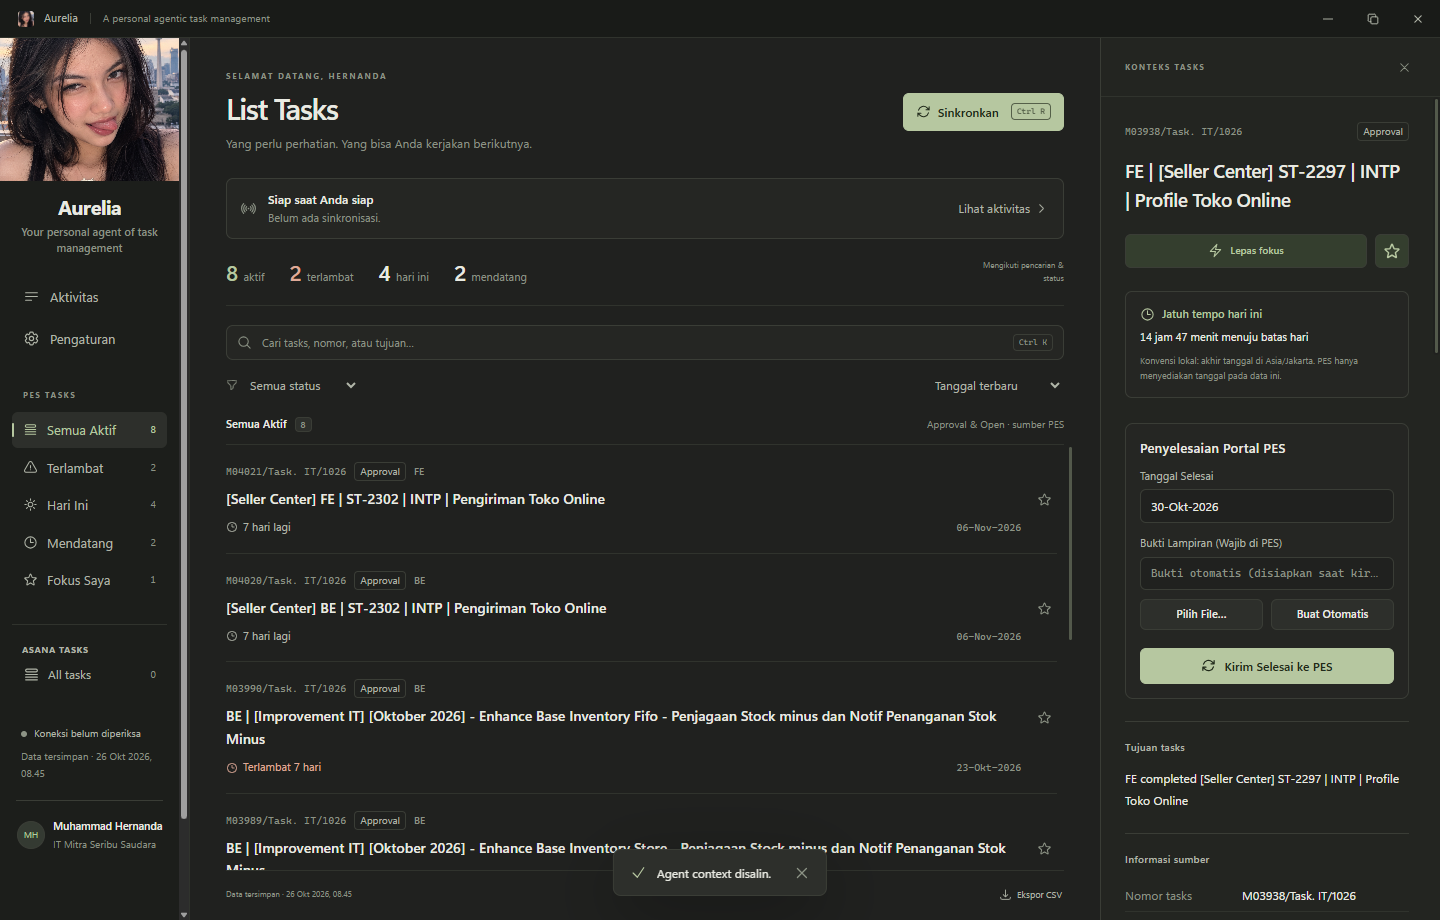
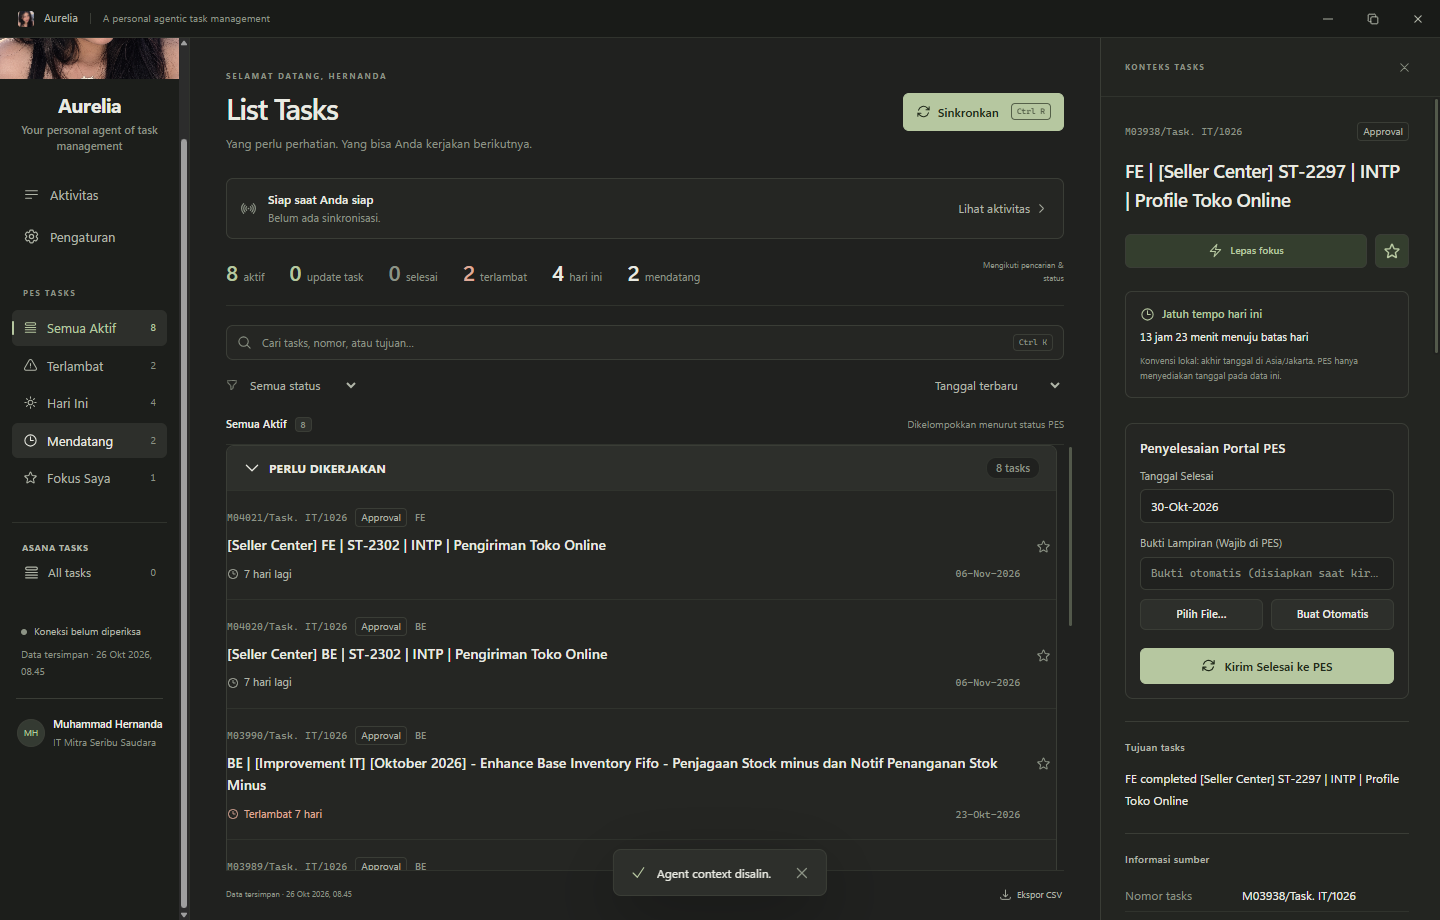
feat: separate Update Task section and collapsible Completed section in PES view

diff --git a/desktop/src/renderer/App.tsx b/desktop/src/renderer/App.tsx
@@ -195,7 +195,28 @@ export default function App() {
   const decorated = useMemo(() => tasks.map(task => ({ task, deadline: deadlineInfo(task.Duedate, now, tz) })), [tasks, now, tz]);
   const base = useMemo(() => decorated.filter(({task}) => !isUntitledPesTask(task) && (status === 'all' || task.Status === status) && (!query.trim() || [task.TaskNo,task.TaskName,task.GoalTask,task.Pic,task.DeptName,task.AsalTask,task.Status,task.Target].join(' ').toLocaleLowerCase('id-ID').includes(query.trim().toLocaleLowerCase('id-ID')))), [decorated,query,status]);
   const isFocus = useCallback((id: string) => !!state?.preferences[id]?.pinned || state?.focusTaskId === id, [state?.preferences,state?.focusTaskId]);
-  const counts = useMemo(() => ({ all:base.length, overdue:base.filter(t => t.deadline.kind === 'overdue').length, today:base.filter(t => t.deadline.kind === 'today').length, upcoming:base.filter(t => t.deadline.kind === 'upcoming').length, focus:base.filter(t => isFocus(t.task.TaskNo)).length }), [base,isFocus]);
+  const counts = useMemo(() => {
+    const activeTasks = base.filter(t => ['Approval', 'Open'].includes(t.task.Status));
+    return {
+      all: base.length,
+      active: activeTasks.length,
+      updateTask: base.filter(t => t.task.Status === 'Update Task').length,
+      completed: base.filter(t => ['Solved', 'Selesai'].includes(t.task.Status)).length,
+      overdue: activeTasks.filter(t => t.deadline.kind === 'overdue').length,
+      today: activeTasks.filter(t => t.deadline.kind === 'today').length,
+      upcoming: activeTasks.filter(t => t.deadline.kind === 'upcoming').length,
+      focus: base.filter(t => isFocus(t.task.TaskNo)).length,
+    };
+  }, [base, isFocus]);
+  const [pesCollapsed, setPesCollapsed] = useState<Set<string>>(new Set(['completed']));
+  const togglePesGroup = (key: string) => {
+    setPesCollapsed(prev => {
+      const next = new Set(prev);
+      if (next.has(key)) next.delete(key);
+      else next.add(key);
+      return next;
+    });
+  };
   const visible = useMemo(() => {
     const order = {overdue:0,today:1,upcoming:2,unknown:3};
     return base.filter(({task,deadline}) => view === 'all' || (view === 'focus' ? isFocus(task.TaskNo) : deadline.kind === view)).sort((a,b) => {
@@ -206,6 +227,16 @@ export default function App() {
       return dateB.localeCompare(dateA) || b.task.TaskNo.localeCompare(a.task.TaskNo);
     });
   }, [base,view,sort,isFocus]);
+  const pesGroups = useMemo(() => {
+    const active = visible.filter(t => ['Approval', 'Open'].includes(t.task.Status));
+    const updateTask = visible.filter(t => t.task.Status === 'Update Task');
+    const completed = visible.filter(t => ['Solved', 'Selesai'].includes(t.task.Status));
+    const list: { key: string; label: string; items: typeof visible }[] = [];
+    if (active.length > 0) list.push({ key: 'active', label: 'PERLU DIKERJAKAN', items: active });
+    if (updateTask.length > 0) list.push({ key: 'update-task', label: 'UPDATE TASK · MENUNGGU APPROVAL', items: updateTask });
+    if (completed.length > 0) list.push({ key: 'completed', label: 'COMPLETED · SELESAI', items: completed });
+    return list;
+  }, [visible]);
   const selected = tasks.find(task => task.TaskNo === selectedId);
   const busy = localSyncPending || runningPhase(state?.sync.phase ?? 'idle');
   const sync = useCallback(() => {
@@ -243,11 +274,11 @@ export default function App() {
         {state.sync.phase === 'success' && state.snapshot?.diff && <div className="snapshot-diff"><CheckIcon/><span>{state.snapshot.diff.added} baru · {state.snapshot.diff.changed} berubah · {state.snapshot.diff.scopeChanged ? 'cakupan berubah; jumlah keluar tidak dibandingkan' : `${state.snapshot.diff.outOfScope} tidak lagi di cakupan (bukan status selesai)`}</span></div>}
         </>}
         {page === 'asana' && <AsanaPanel state={asanaState} status={asanaStatus} onStatus={setAsanaStatus} timezone={tz} onNotify={notify}/>}
-        {page === 'tasks' && <><section className="summary" aria-label="Ringkasan hasil pencarian dan status"><div><strong>{counts.all}</strong><span>aktif</span></div><div className="urgent"><strong>{counts.overdue}</strong><span>terlambat</span></div><div><strong>{counts.today}</strong><span>hari ini</span></div><div><strong>{counts.upcoming}</strong><span>mendatang</span></div><span className="summary-scope">Mengikuti pencarian & status</span></section><div className="list-toolbar"><label className="search-field"><MagnifyingGlassIcon/><input ref={searchRef} data-testid="search-input" aria-label="Cari tasks" value={query} onChange={e => setQuery(e.target.value)} placeholder="Cari tasks, nomor, atau tujuan…"/><kbd>Ctrl K</kbd></label><div className="filter-row"><label className="select-wrap"><FunnelIcon/><select aria-label="Filter status" value={status} onChange={e => setStatus(e.target.value)}><option value="all">Semua status</option><option value="Approval">Approval</option><option value="Open">Open</option></select></label><label className="select-wrap sort-wrap"><select aria-label="Urutkan tasks" value={sort} onChange={e => setSort(e.target.value)}><option value="date-desc">Tanggal terbaru</option><option value="deadline">Tenggat terdekat</option><option value="name">Nama tasks A–Z</option></select></label>{(query || status !== 'all' || sort !== 'date-desc' || view !== 'all') && <button className="text-button" onClick={() => {setQuery('');setStatus('all');setSort('date-desc');setView('all');}}>Reset</button>}</div></div><div className="list-heading"><h2>{views.find(v => v.id === view)?.label} <span>{visible.length}</span></h2><span>{view === 'focus' ? 'Organisasi pribadi · tidak mengubah PES' : 'Approval & Open · sumber PES'}</span></div>
+        {page === 'tasks' && <><section className="summary" aria-label="Ringkasan hasil pencarian dan status"><div><strong>{counts.active}</strong><span>aktif</span></div><div className="update-task-stat"><strong>{counts.updateTask}</strong><span>update task</span></div><div className="completed-stat"><strong>{counts.completed}</strong><span>selesai</span></div><div className="urgent"><strong>{counts.overdue}</strong><span>terlambat</span></div><div><strong>{counts.today}</strong><span>hari ini</span></div><div><strong>{counts.upcoming}</strong><span>mendatang</span></div><span className="summary-scope">Mengikuti pencarian & status</span></section><div className="list-toolbar"><label className="search-field"><MagnifyingGlassIcon/><input ref={searchRef} data-testid="search-input" aria-label="Cari tasks" value={query} onChange={e => setQuery(e.target.value)} placeholder="Cari tasks, nomor, atau tujuan…"/><kbd>Ctrl K</kbd></label><div className="filter-row"><label className="select-wrap"><FunnelIcon/><select aria-label="Filter status" value={status} onChange={e => setStatus(e.target.value)}><option value="all">Semua status</option><option value="Approval">Approval</option><option value="Open">Open</option><option value="Update Task">Update Task</option><option value="Selesai">Selesai</option><option value="Solved">Solved</option></select></label><label className="select-wrap sort-wrap"><select aria-label="Urutkan tasks" value={sort} onChange={e => setSort(e.target.value)}><option value="date-desc">Tanggal terbaru</option><option value="deadline">Tenggat terdekat</option><option value="name">Nama tasks A–Z</option></select></label>{(query || status !== 'all' || sort !== 'date-desc' || view !== 'all') && <button className="text-button" onClick={() => {setQuery('');setStatus('all');setSort('date-desc');setView('all');}}>Reset</button>}</div></div><div className="list-heading"><h2>{views.find(v => v.id === view)?.label} <span>{visible.length}</span></h2><span>{view === 'focus' ? 'Organisasi pribadi · tidak mengubah PES' : 'Dikelompokkan menurut status PES'}</span></div>
           {view === 'all' && base.some(item => item.deadline.kind === 'unknown') && <p className="unknown-note"><ClockIcon/>{base.filter(item => item.deadline.kind === 'unknown').length} tasks tanpa tanggal valid tetap ditampilkan; tidak dihitung sebagai terlambat.</p>}
           {view === 'focus' && state.focusTaskId && !tasks.some(t => t.TaskNo === state.focusTaskId) && <div className="missing-focus"><StarIcon/><div><strong>Fokus Anda di luar snapshot saat ini</strong><p>{state.focusTaskId} tetap disimpan sebagai pilihan lokal. Ini tidak berarti tasks selesai.</p></div><button className="text-button" onClick={() => void call(() => window.pes.setFocus(null))}>Lepas fokus</button></div>}
           {view === 'focus' && state.focusTaskId && tasks.some(t => t.TaskNo === state.focusTaskId) && <button className="focus-feature" onClick={() => selectTask(state.focusTaskId)}><BoltIcon/><div><span className="eyebrow">FOKUS BERIKUTNYA</span><strong>{tasks.find(t => t.TaskNo === state.focusTaskId)?.TaskName}</strong><span>{tasks.find(t => t.TaskNo === state.focusTaskId)?.GoalTask || 'Buka detail untuk melihat konteks tasks.'}</span></div><ChevronRightIcon/></button>}
-          <div className="task-list" role="region" aria-label="Daftar tasks" tabIndex={0}>{visible.length ? visible.map(({task,deadline},index) => { const tag = /\b(FE|BE)\b/.exec(`${task.TaskName} ${task.AsalTask}`)?.[1]; return <div key={task.TaskNo} className={`task-row ${selectedId === task.TaskNo ? 'is-selected' : ''}`} data-testid="task-row" data-task-index={index}><button className="task-row-main" onClick={() => selectTask(task.TaskNo)} aria-pressed={selectedId === task.TaskNo}><div className="task-meta"><span className="task-id">{task.TaskNo}</span><span className="status-pill">{task.Status}</span>{tag && <span className="tech-tag">{tag}</span>}{state.focusTaskId === task.TaskNo && <span className="focus-tag"><BoltIcon/>Fokus</span>}</div><h3>{task.TaskName || 'Nama tasks tidak tersedia'}</h3><div className="task-row-bottom"><span className={`deadline ${deadline.kind}`}><ClockIcon/>{deadline.label}</span><span className="due-source">{task.Duedate || 'Tanggal belum tersedia'}</span></div></button><IconButton label={`${state.preferences[task.TaskNo]?.pinned ? 'Lepas sematan' : 'Sematkan'} ${task.TaskNo}`} active={!!state.preferences[task.TaskNo]?.pinned} onClick={() => void call(() => window.pes.togglePin(task.TaskNo))}><StarIcon/></IconButton></div>; }) : <Empty title={!state.snapshot ? 'Mulai dengan satu sinkronisasi.' : !tasks.length ? 'Tidak ada tasks dalam snapshot ini.' : view === 'focus' ? 'Pilih yang ingin Anda utamakan.' : 'Tidak ada tasks yang cocok.'} text={!state.snapshot ? 'Hubungkan ke PES. Snapshot yang berhasil akan tetap tersedia saat Anda offline.' : !tasks.length ? 'Snapshot valid tidak memuat tasks Approval atau Open dalam cakupan ini.' : view === 'focus' ? 'Sematkan tasks atau pilih “Fokus berikutnya” di detail. Semua pilihan hanya tersimpan lokal.' : 'Coba kata kunci lain, ubah status, atau kembali ke Semua Aktif.'}>{!state.snapshot && <button className="button" data-testid="connection-button" onClick={() => void call(() => window.pes.openConnection())}><ArrowTopRightOnSquareIcon/>Masuk ke PES</button>}</Empty>}</div><footer className="list-footer"><span>{sourceLabel}</span><button className="text-button" disabled={!state.snapshot} onClick={() => void call(() => window.pes.exportTasks('csv'))}><ArrowDownTrayIcon/>Ekspor CSV</button></footer></>}
+          <div className="task-list" role="region" aria-label="Daftar tasks" tabIndex={0}>{pesGroups.length ? pesGroups.map(group => { const isCollapsed = pesCollapsed.has(group.key); return <section key={group.key} className={`pes-group pes-group-${group.key}`} data-testid={`pes-group-${group.key}`}><h2 className="pes-group-header"><button type="button" className="pes-group-toggle" aria-expanded={!isCollapsed} data-testid={`pes-toggle-${group.key}`} onClick={() => togglePesGroup(group.key)}>{isCollapsed ? <ChevronRightIcon /> : <ChevronDownIcon />}<span className="pes-group-title">{group.label}</span><span className="pes-group-badge">{group.items.length} tasks</span></button></h2>{!isCollapsed && <div className="pes-group-items">{group.items.map(({task,deadline},index) => { const tag = /\b(FE|BE)\b/.exec(`${task.TaskName} ${task.AsalTask}`)?.[1]; return <div key={task.TaskNo} className={`task-row ${selectedId === task.TaskNo ? 'is-selected' : ''}`} data-testid="task-row" data-task-index={index}><button className="task-row-main" onClick={() => selectTask(task.TaskNo)} aria-pressed={selectedId === task.TaskNo}><div className="task-meta"><span className="task-id">{task.TaskNo}</span><span className={`status-pill ${task.Status === 'Update Task' ? 'status-update' : task.Status === 'Solved' || task.Status === 'Selesai' ? 'status-done' : ''}`}>{task.Status}</span>{tag && <span className="tech-tag">{tag}</span>}{state.focusTaskId === task.TaskNo && <span className="focus-tag"><BoltIcon/>Fokus</span>}</div><h3>{task.TaskName || 'Nama tasks tidak tersedia'}</h3><div className="task-row-bottom"><span className={`deadline ${deadline.kind}`}><ClockIcon/>{deadline.label}</span><span className="due-source">{task.Duedate || 'Tanggal belum tersedia'}</span></div></button><IconButton label={`${state.preferences[task.TaskNo]?.pinned ? 'Lepas sematan' : 'Sematkan'} ${task.TaskNo}`} active={!!state.preferences[task.TaskNo]?.pinned} onClick={() => void call(() => window.pes.togglePin(task.TaskNo))}><StarIcon/></IconButton></div>; })}</div>}</section>; }) : <Empty title={!state.snapshot ? 'Mulai dengan satu sinkronisasi.' : !tasks.length ? 'Tidak ada tasks dalam snapshot ini.' : view === 'focus' ? 'Pilih yang ingin Anda utamakan.' : 'Tidak ada tasks yang cocok.'} text={!state.snapshot ? 'Hubungkan ke PES. Snapshot yang berhasil akan tetap tersedia saat Anda offline.' : !tasks.length ? 'Snapshot valid tidak memuat tasks dalam cakupan ini.' : view === 'focus' ? 'Sematkan tasks atau pilih “Fokus berikutnya” di detail. Semua pilihan hanya tersimpan lokal.' : 'Coba kata kunci lain, ubah status, atau kembali ke Semua Aktif.'}>{!state.snapshot && <button className="button" data-testid="connection-button" onClick={() => void call(() => window.pes.openConnection())}><ArrowTopRightOnSquareIcon/>Masuk ke PES</button>}</Empty>}</div><footer className="list-footer"><span>{sourceLabel}</span><button className="text-button" disabled={!state.snapshot} onClick={() => void call(() => window.pes.exportTasks('csv'))}><ArrowDownTrayIcon/>Ekspor CSV</button></footer></>}
         {page === 'activity' && <section className="activity-page"><div className="activity-toolbar"><label className="search-field"><MagnifyingGlassIcon/><input ref={activitySearchRef} aria-label="Cari aktivitas" placeholder="Cari pesan, tahap, atau run ID…" value={activityQuery} onChange={e => setActivityQuery(e.target.value)}/></label><div className="filter-row"><select aria-label="Tingkat aktivitas" value={level} onChange={e => setLevel(e.target.value)}><option value="all">Semua tingkat</option>{['info','success','warning','error'].map(v => <option key={v}>{v}</option>)}</select><select aria-label="Kategori aktivitas" value={category} onChange={e => setCategory(e.target.value)}><option value="all">Semua kategori</option>{['sync','connection','local','export','system'].map(v => <option key={v}>{v}</option>)}</select><IconButton label="Ekspor aktivitas" disabled={!state.activities.length} onClick={() => void call(() => window.pes.exportActivity())}><ArrowDownTrayIcon/></IconButton><IconButton label="Hapus riwayat aktivitas" disabled={!state.activities.length} onClick={() => setClearConfirm(true)}><TrashIcon/></IconButton></div></div>{activities.length ? activities.map(([id,items]) => <section className="activity-group" key={id}><h2>{items[0].runId ? 'Sinkronisasi' : 'Aktivitas lokal'} <span>{items[0].runId ?? formatDate(items[0].at,tz)}</span></h2>{items.map(a => <details className={`activity-item level-${a.level}`} key={a.id}><summary><span className="event-dot"/><div><strong>{interfaceCopy(a.message)}</strong><span className="event-meta">{a.level} · {a.category}{a.stage ? ` · ${a.stage}` : ''}{a.durationMs !== undefined ? ` · ${(a.durationMs / 1000).toLocaleString('id-ID')} dtk` : ''}</span></div><time dateTime={a.at}>{formatDate(a.at,tz,true)}</time><ChevronDownIcon/></summary><div className="event-detail"><span className="mono">ID: {a.id}{a.runId ? ` · Run: ${a.runId}` : ''}</span><pre>{a.detail || 'Tidak ada detail teknis tambahan untuk peristiwa ini.'}</pre></div></details>)}</section>) : <Empty title={state.activities.length ? 'Tidak ada aktivitas yang cocok.' : 'Belum ada jejak aktivitas.'} text={state.activities.length ? 'Ubah pencarian atau filter untuk melihat peristiwa lain.' : 'Koneksi, sinkronisasi, dan tindakan lokal akan tercatat di sini. Tidak ada riwayat buatan.'}/>}</section>}
         {page === 'settings' && <div className="settings-page"><CompletionObserver status={state.completion}/><AgentWorkspace info={state.agentWorkspace} timezone={tz} call={call}/><section className="settings-section"><div className="section-icon"><ShieldCheckIcon/></div><div className="settings-content"><h2>Koneksi yang tetap milik Anda.</h2><p>Masuk langsung di halaman PES dalam jendela koneksi terpisah. PES tidak meminta, membaca, atau menyimpan kata sandi Anda.</p><div className="connection-card"><span className={`connection-dot ${state.connection === 'connected' ? 'connected' : ''}`}/><strong>{connectionLabel}</strong><button className="button" data-testid="connection-button" onClick={() => void call(() => window.pes.openConnection())}>Masuk ke PES <ArrowTopRightOnSquareIcon/></button></div><dl className="settings-facts"><div><dt>Snapshot tersedia</dt><dd>{sourceLabel}</dd></div><div><dt>Sinkron berhasil terakhir</dt><dd>{state.snapshot?.source === 'live' ? formatDate(state.snapshot.retrievedAt,tz,true) : 'Belum tercatat · impor bukan sinkron langsung'}</dd></div><div><dt>Upaya terakhir</dt><dd>{formatDate(state.lastAttemptAt,tz,true)}</dd></div></dl>{state.lastError && <p className="error-note">Upaya terakhir gagal: {interfaceCopy(state.lastError)}. Snapshot sebelumnya tetap tersedia.</p>}</div></section><section className="settings-section"><div className="section-icon"><SunIcon/></div><div className="settings-content"><h2>Tampilan & ritme.</h2><label className="setting-row"><div><strong>Tema</strong><span>Pilih warna dan nuansa yang nyaman untuk bekerja.</span></div><select data-testid="theme-select" aria-label="Tema" value={state.settings.theme} onChange={e => updateSettings({theme:e.target.value as Settings['theme']})}><option value="pinkish">Pinkish (Sakura & Rose)</option><option value="dark">Aurelia Gelap</option><option value="light">Aurelia Terang</option><option value="system">Ikuti sistem</option><option value="catppuccin">Catppuccin (Mocha)</option><option value="everforest">Everforest (Warm Green)</option><option value="solarized">Solarized (Cyan & Teal)</option><option value="github">GitHub (Dimmed)</option><option value="nous">Nous (Electric Blue)</option><option value="nous-alt">Nous Alt (Navy & Cream)</option><option value="midnight">Midnight (Neon Violet)</option><option value="ember">Ember (Terracotta)</option><option value="cyberpunk">Cyberpunk (Matrix Green)</option><option value="slate">Slate (Steel Blue)</option><option value="mono">Monochrome (Minimal)</option></select></label><label className="setting-row"><div><strong>Daftar lebih ringkas</strong><span>Jarak antar tasks lebih rapat, isi tetap lengkap.</span></div><input className="switch" role="switch" type="checkbox" checked={state.settings.compact} onChange={e => updateSettings({compact:e.target.checked})}/></label><label className="setting-row"><div><strong>Zona waktu</strong><span>Untuk tanggal, hitung mundur, dan batas hari.</span></div><select aria-label="Zona waktu" value={tz} onChange={e => updateSettings({timezone:e.target.value})}>{timezones.map(zone => <option key={zone}>{zone}</option>)}</select></label><p className="convention-note"><ClockIcon/>PES menyediakan tanggal, bukan jam tenggat. Aplikasi menghitung hingga tengah malam berikutnya di {tz}; ini konvensi lokal, bukan kebijakan waktu server PES.</p></div></section><section className="settings-section"><div className="section-icon"><FunnelIcon/></div><div className="settings-content"><h2>Cakupan yang jelas.</h2><p>Sinkronisasi manual, baca-saja. Rentang dihitung setiap proses: awal bulan sebelumnya sampai akhir bulan berikutnya.</p><dl className="settings-facts"><div><dt>Rentang proses berikutnya</dt><dd>{scope.from} — {scope.to}</dd></div><div><dt>Status sumber</dt><dd>Approval dan Open</dd></div><div><dt>PIC</dt><dd>MUHAMMAD HERNANDA</dd></div><div><dt>Departemen</dt><dd>IT Mitra Seribu Saudara</dd></div>{state.snapshot && <div><dt>Cakupan snapshot tersimpan</dt><dd>{state.snapshot.scope.from} — {state.snapshot.scope.to}</dd></div>}</dl><p className="subtle-note">Sematan dan fokus adalah preferensi lokal. Tidak ada perubahan status, pengiriman data tasks, atau sinkronisasi otomatis.</p></div></section><footer className="settings-footer">Aurelia <span>A personal agentic task management · data tersimpan di perangkat</span></footer></div>}
       </main>

diff --git a/desktop/src/renderer/styles.css b/desktop/src/renderer/styles.css
@@ -54,3 +54,19 @@ body{font-size:14px}.task-row h3{font-size:14px;line-height:1.6}.task-id{font-si
 .pes-evidence-btns { display: flex; gap: 8px; margin-top: 4px; }
 .pes-evidence-btns .button { flex: 1; font-size: 11px; padding: 6px 10px; justify-content: center; }
 .pes-complete-btn { margin-top: 6px; width: 100%; justify-content: center; padding: 8px; font-weight: 600; gap: 8px; }
+/* PES Section Groups */
+.pes-group { margin-bottom: 22px; border: 1px solid var(--border-default); border-radius: 8px; background: var(--bg-surface); overflow: hidden; }
+.pes-group-header { margin: 0; background: var(--bg-elevated); border-bottom: 1px solid var(--border-faint); }
+.pes-group-toggle { width: 100%; display: flex; align-items: center; gap: 8px; padding: 11px 16px; background: transparent; font-size: 12px; font-weight: 650; color: var(--text-primary); text-align: left; }
+.pes-group-toggle:hover { background: var(--bg-strong); }
+.pes-group-title { flex: 1; letter-spacing: 0.2px; font-size: 12px; }
+.pes-group-badge { font-size: 11px; font-weight: 500; color: var(--text-muted); background: var(--bg-root); padding: 2px 9px; border-radius: 10px; border: 1px solid var(--border-faint); }
+.pes-group-items { display: flex; flex-direction: column; }
+.pes-group.pes-group-update-task .pes-group-header { border-left: 3px solid var(--accent); }
+.pes-group.pes-group-update-task .pes-group-badge { color: var(--accent); border-color: var(--accent); }
+.pes-group.pes-group-completed { opacity: 0.9; }
+.pes-group.pes-group-completed .pes-group-header { border-left: 3px solid var(--text-muted); }
+.status-pill.status-update { background: var(--accent-soft); color: var(--accent); border: 1px solid var(--accent); }
+.status-pill.status-done { background: var(--bg-elevated); color: var(--text-muted); border: 1px solid var(--border-default); }
+.update-task-stat strong { color: var(--accent); }
+.completed-stat strong { color: var(--text-muted); }

diff --git a/desktop/src/shared/domain.ts b/desktop/src/shared/domain.ts
@@ -63,10 +63,10 @@ export function validateSnapshot(value: unknown): Snapshot {
       const key = row[1];
       if (!key.trim() || key !== key.trim() || rowKeys.has(key) || row[3] !== PIC) throw new Error('Invalid source row identity');
       rowKeys.add(key);
-      if (detailed.has(key)) {
+      if (row[12] === 'Approval' || row[12] === 'Open' || detailed.has(key)) {
         activeRows++;
-        const task = detailed.get(key)!;
-        if (TASK_FIELDS.some((field, i) => !['Status', 'TglSelesai', 'Lampiran'].includes(field) && task[field] !== row[i + 1]) || (task.Row !== undefined && task.Row !== row[0])) throw new Error('Source row/detail mismatch');
+        const task = detailed.get(key);
+        if (!task || TASK_FIELDS.some((field, i) => task[field] !== row[i + 1]) || (task.Row !== undefined && task.Row !== row[0])) throw new Error('Source row/detail mismatch');
       }
     }
     if (activeRows !== tasks.length) throw new Error('Source row/active count mismatch');
